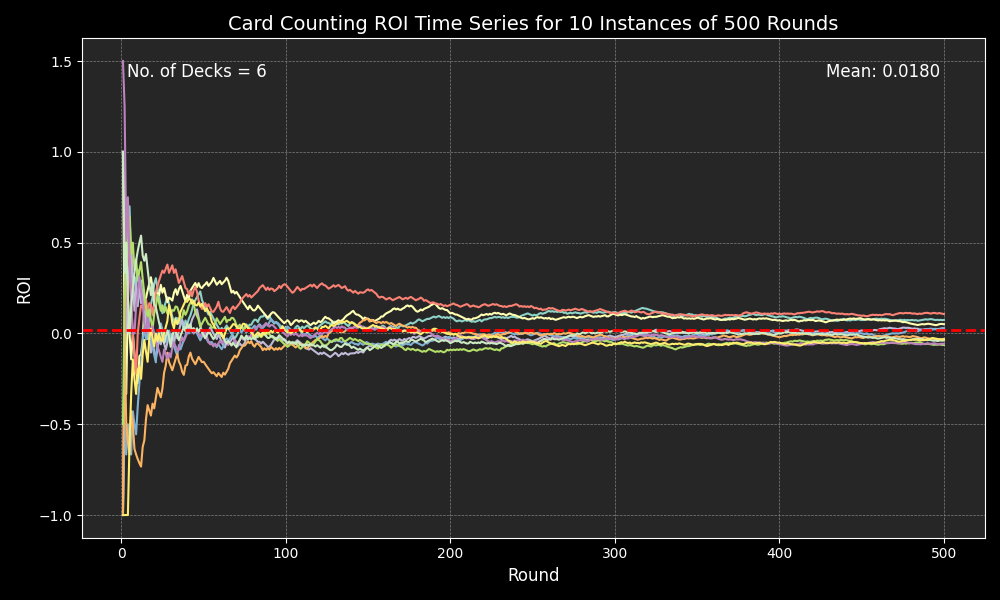
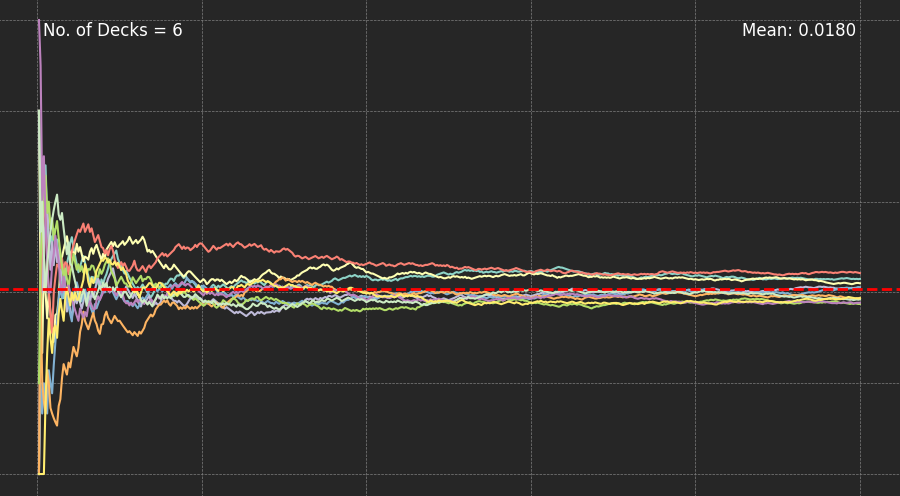
Cropped image

diff --git a/src/App.tsx b/src/App.tsx
@@ -23,13 +23,21 @@ export default function App() {
           </div>
         </section>
         <section id='about' className='my-[60px]'>
-        <h1 className="my-heading">about_me();</h1>
+          <h1 className="my-heading">about_me();</h1>
           <div className="flex flex-row mx-40 my-20">
             <div className="flex w-1/2">
               <ProfileCard />
             </div>
             <div className="pl-10">
-              <p>Lorem ipsum dolor sit...</p>
+              <p>
+                Hi, I’m Ryan! I’m a final-year student at Stellenbosch University, majoring in Financial Risk Management and Computer Science. I’ve always been fascinated by the intersection of data, technology, and finance, which has driven my passion for software development and problem-solving.
+                <br /><br />
+                My journey started with actuarial science, where I developed a strong foundation in data-driven decision-making, before shifting to computer science to pursue my love for software engineering and machine learning. Along the way, I’ve worked on a variety of projects, from building full-stack web applications to participating in AI-driven hackathons, always eager to explore new technologies.
+                <br /><br />
+                Outside of coding, I have a long-time obsession with data in all forms—whether it's analyzing portfolio strategies, rating movies on IMDb, or logging my daily cold showers. My curiosity doesn’t stop at software: I’m also a fan of Linux, Raspberry Pi projects, and learning as much as I can about the latest in tech.
+                <br /><br />
+                I’m passionate about continuous learning, which fuels both my technical expertise and my social nature. I’ve read over 70 books, improving not just my knowledge but also my communication skills, helping me connect with people and explain complex concepts easily. I’m excited to keep growing, both personally and professionally, and I look forward to contributing to projects that challenge and inspire me.
+              </p>
             </div>
           </div>
         </section>
